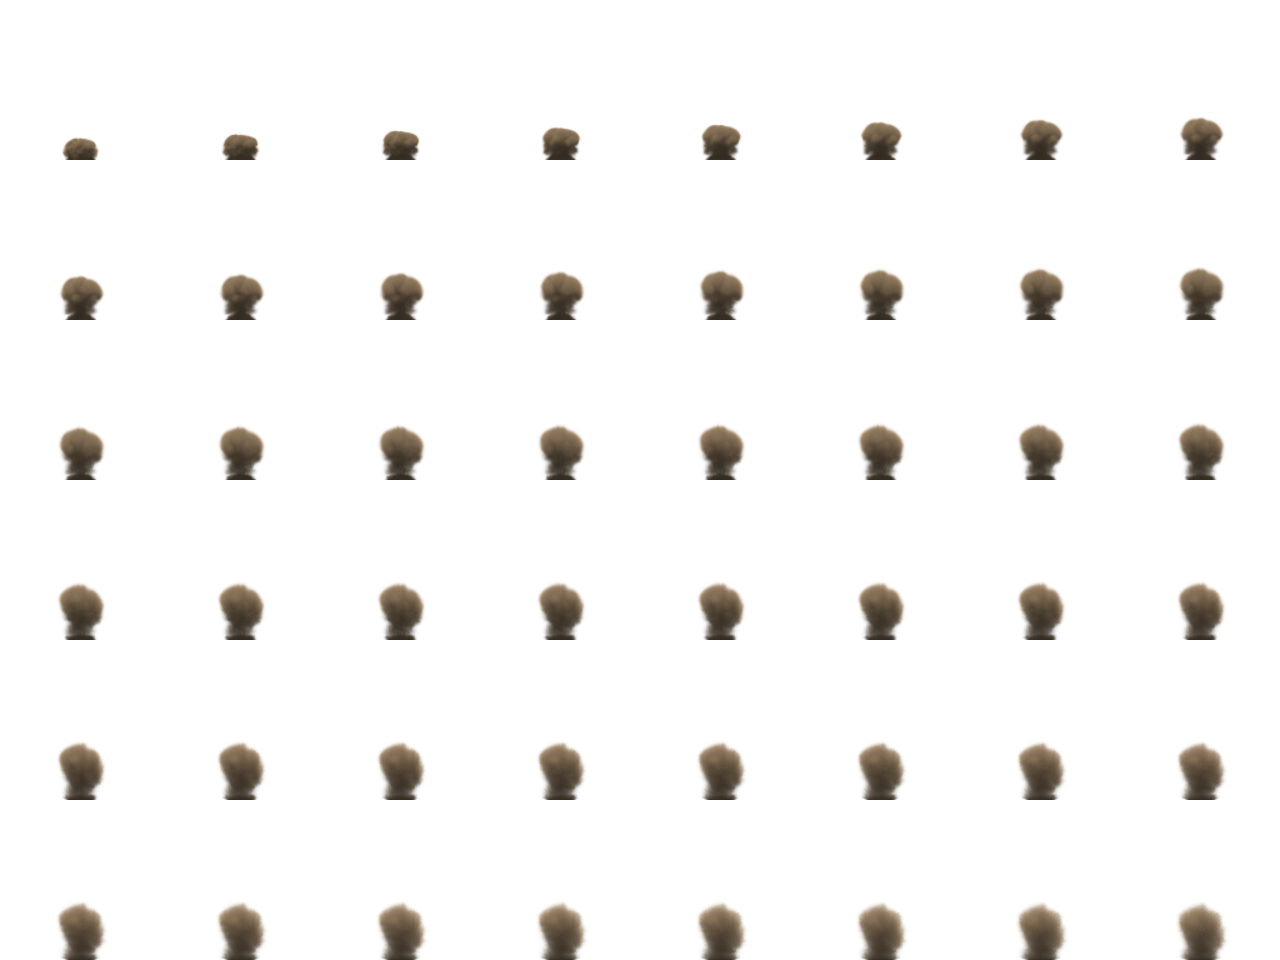
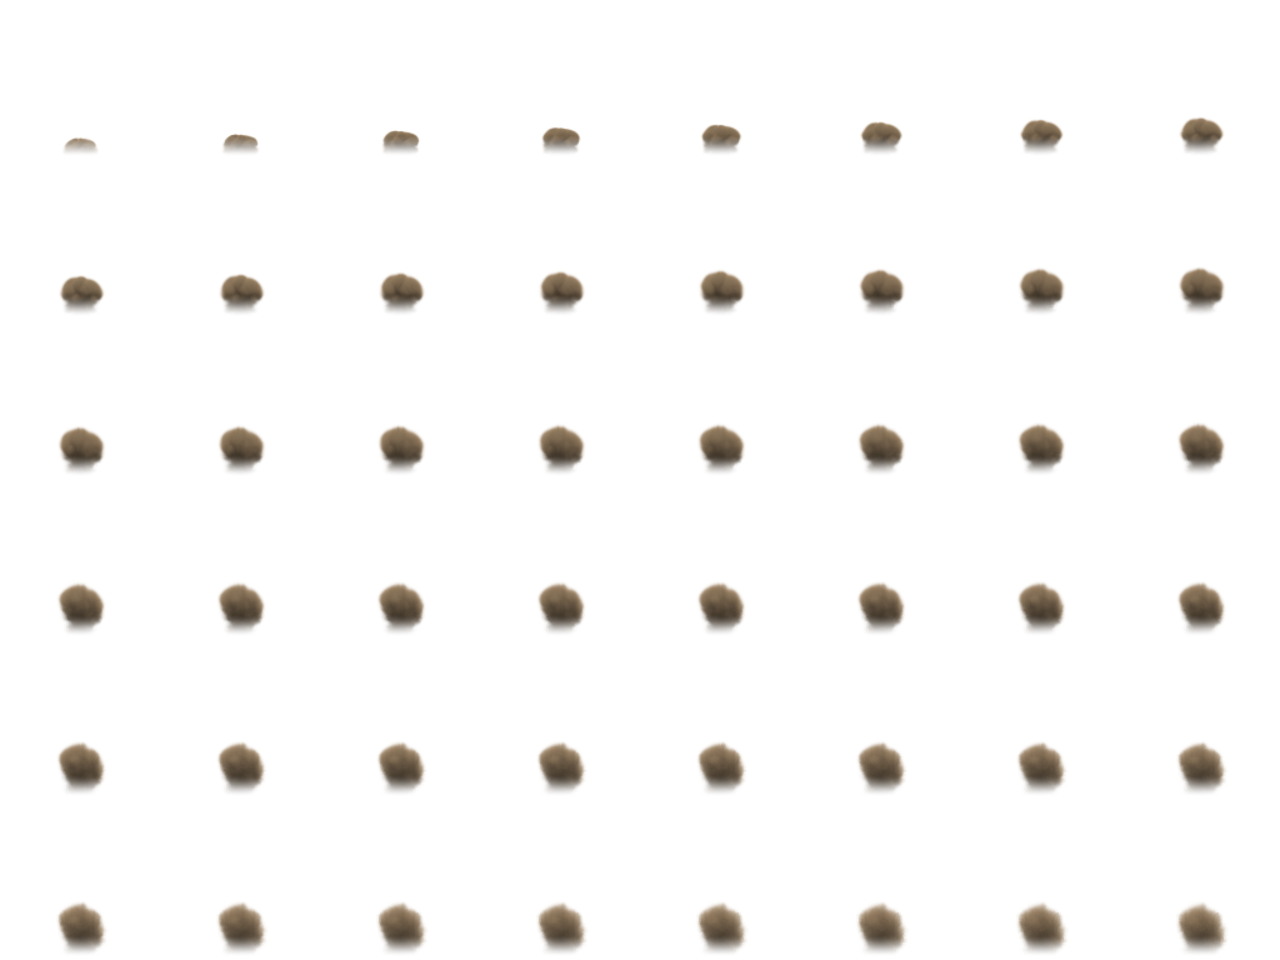
Flipbook'larda kenar sönümlemesi (hücre kenarında düz kesik/dikdörtgen görünüm giderildi)
Claude-Session: https://claude.ai/code/session_01CMmdsAD59GUoo9XDdDMnts

diff --git a/tools/fx_sim.py b/tools/fx_sim.py
@@ -162,6 +162,11 @@ for fr in range(NFR):
 	canvas = np.zeros((NY, NY, 4), np.float32)
 	ox = (NY - NX) // 2
 	canvas[:, ox:ox + NX] = img
+	# kenar sönümlemesi: alan sınırına değen duman/toz düz kenar yapmasın; 2 px saydam pay (atlas taşması)
+	yy, xx = np.mgrid[0:NY, 0:NY].astype(np.float32)
+	e = np.minimum(np.minimum(xx, NY - 1 - xx), np.minimum(yy, NY - 1 - yy))
+	edge = np.clip((e - 2.0) / (NY * 0.14), 0, 1)
+	canvas[..., 3] *= edge * edge * (3 - 2 * edge)
 	frames.append(Image.fromarray((canvas * 255).astype(np.uint8), "RGBA").resize((CELL, CELL), Image.BICUBIC))
 	print("FRAME", fr, "max_t=%.2f max_d=%.2f" % (float(temp.max()), float(dens.max())), flush=True)
 
